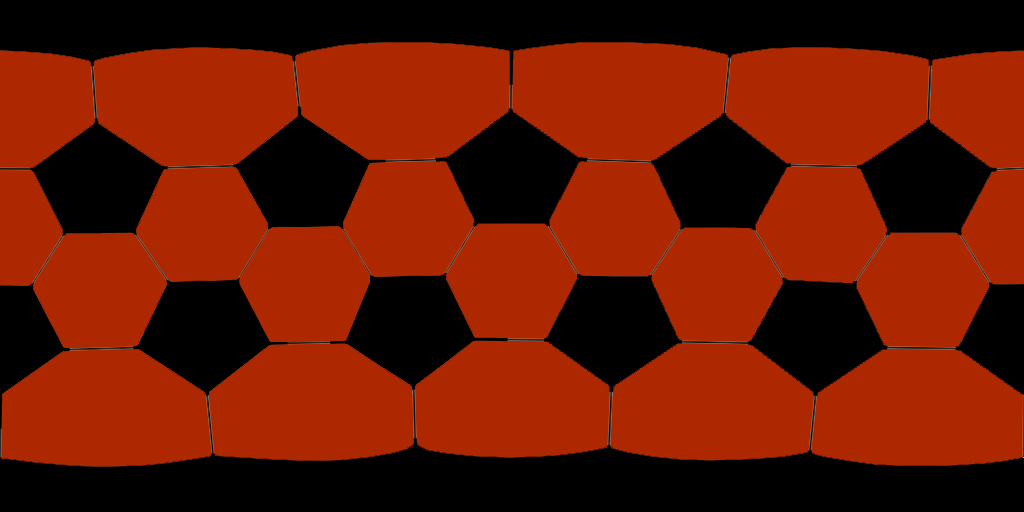
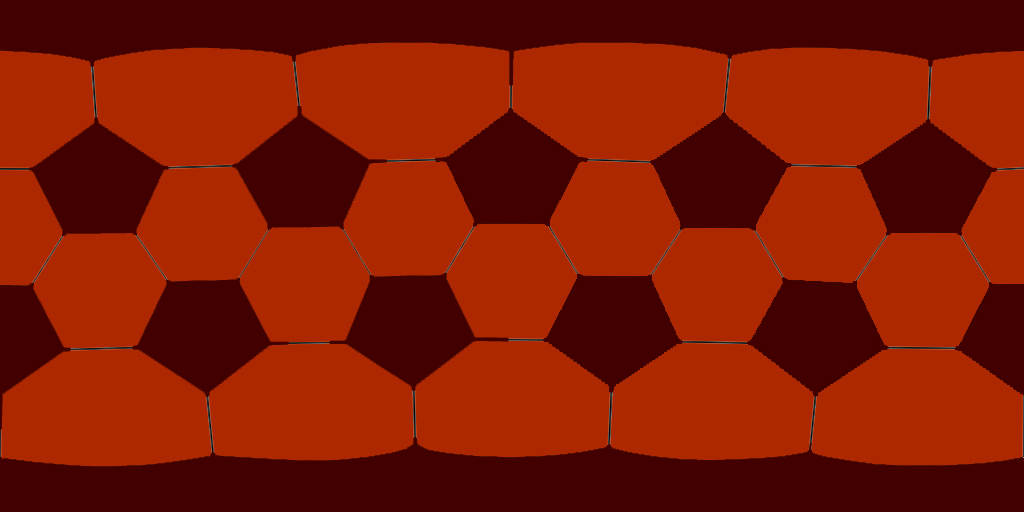
the ball doesn't go under robots anymore

diff --git a/controllers/team_blue/rcj_robot.py b/controllers/team_blue/rcj_robot.py
@@ -83,7 +83,7 @@ class RCJRobot:
                     # اعمال نیرو به مرکز توپ
                     self.ball_node.addForce([fx, fy, 0.0], False)
 
-    def apply_dribbler_pd(self, hold_dist=0.075, kp=100.0, kd=10.0):
+    def apply_dribbler_pd(self, hold_dist=0.075, kp=150.0, kd=20.0):
         """
         نگهداشتن پایدار توپ با فیدبک موقعیت و سرعت
         - hold_dist: فاصله نقطه هدف توپ از مرکز ربات (متر)
@@ -194,7 +194,7 @@ class RCJRobot:
         return self.is_ball_in_kicker()
 
     def kick(self):
-        force = 20.0
+        force = 100.0
         if not self.is_ball_in_kicker():
             self.has_kicked = False
             return False

diff --git a/controllers/team_yellow/rcj_robot.py b/controllers/team_yellow/rcj_robot.py
@@ -83,7 +83,7 @@ class RCJRobot:
                     # اعمال نیرو به مرکز توپ
                     self.ball_node.addForce([fx, fy, 0.0], False)
 
-    def apply_dribbler_pd(self, hold_dist=0.075, kp=100.0, kd=10.0):
+    def apply_dribbler_pd(self, hold_dist=0.075, kp=150.0, kd=20.0):
         """
         نگهداشتن پایدار توپ با فیدبک موقعیت و سرعت
         - hold_dist: فاصله نقطه هدف توپ از مرکز ربات (متر)
@@ -194,7 +194,7 @@ class RCJRobot:
         return self.is_ball_in_kicker()
 
     def kick(self):
-        force = 20.0
+        force = 100.0
         if not self.is_ball_in_kicker():
             self.has_kicked = False
             return False

diff --git a/controllers/team_blue/robot1.py b/controllers/team_blue/robot1.py
@@ -26,6 +26,6 @@ def run_robot(rcj):
         elif ball_pos[0] < -1.06:
             moveTo(rcj, -0.8, max(-0.8, min(ball_pos[1], 0.8)), 0)
         else:
-            moveAngle(rcj, relative_angle_deg + shift, 5, robot_heading)
+            moveAngle(rcj, relative_angle_deg + shift, 20, robot_heading)
     else:
         rcj.motor(0, 0, 0, 0)
